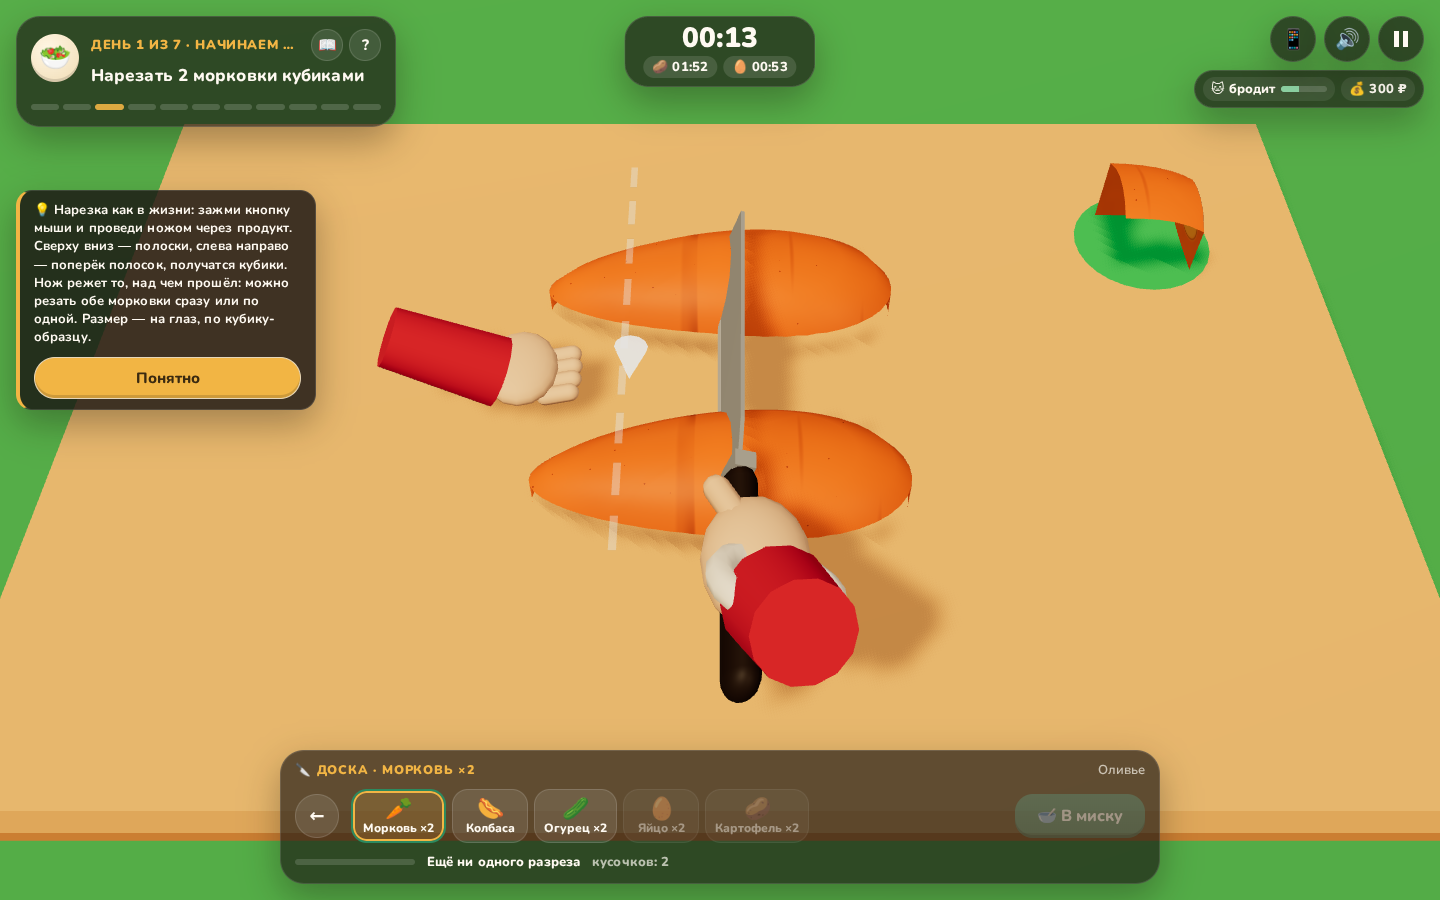
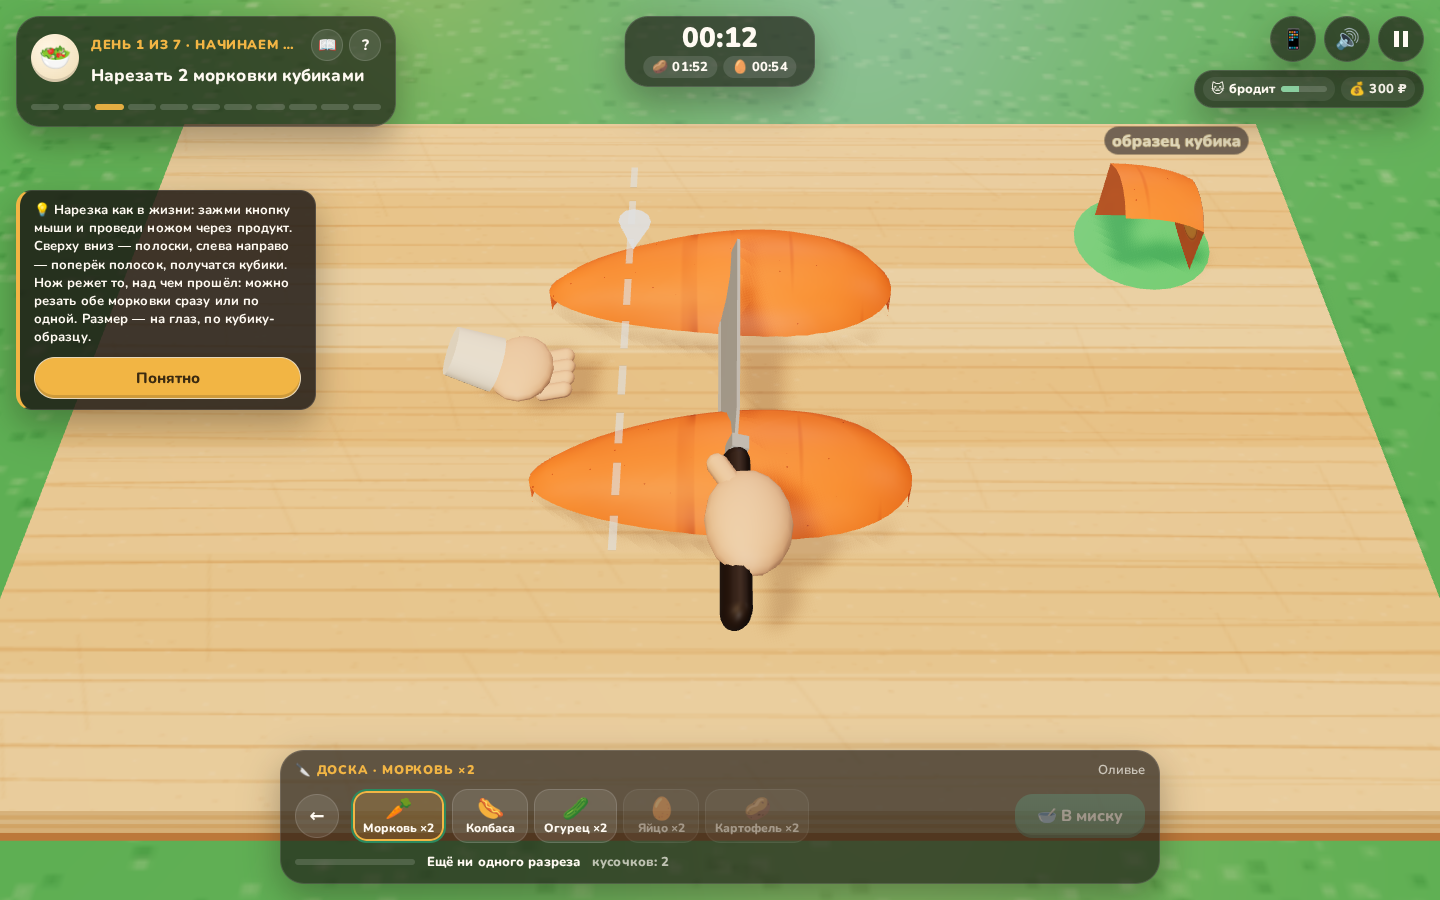
docs: отчёт QA 0.6.0 — день 1 мышью 48/0, снимки 1280 и 1440
Task: #16

Claude-Session: https://claude.ai/code/session_01FGx6tw6oGSPKftvX4UAwQf

diff --git a/.planning/2026-10-07-day1-final-quality/task_plan.md b/.planning/2026-10-07-day1-final-quality/task_plan.md
@@ -23,7 +23,7 @@ Phase 7
 - [x] объёмные кусочки по продукту (высота, кожура vs мякоть, шейдер мякоти)
 - [x] нож следует за росчерком, пунктир будущего разреза, стрелка-подсказка
 - [x] разъезд и раскрытие кусочков, крошки
-- [ ] scripts/campaign-e2e.mjs d1 под росчерки (делегировано QA-агенту)
+- [x] scripts/campaign-e2e.mjs d1 под росчерки (QA-агент, затем обновлён под новый интерфейс)
 - **Status:** complete (коммит 0480492)
 
 ### Phase 2b: Интерфейс заново (фидбек владельца: «калище и нагружено»)
@@ -38,7 +38,7 @@ Phase 7
 
 ### Phase 4: Телефон-смартфон, 5 приложений (#13)
 - [x] домашний экран, 5 приложений, бонусы/декор/фото/таймеры (1b6f07d)
-- [ ] декор виден в 3D-кухне (в фазе 6)
+- [x] декор виден в 3D-кухне (2564f31)
 - **Status:** complete
 
 ### Phase 5: Поучительная книга (#14)
@@ -53,10 +53,10 @@ Phase 7
 
 ### Phase 7: Проверка и выдача (#16)
 - [x] npm test 99/99, темп 41.8/54.8 мин
-- [ ] e2e дня 1 мышью 1280 и 1440 под новый интерфейс (идёт)
-- [x] interaction-spec.md (вместо gestures.md), нейтральная ссылка v2 опубликована
-- [ ] docs/QA_v06.md, CHANGELOG 0.6.0, push, отчёт владельцу
-- **Status:** pending
+- [x] e2e дня 1 мышью 1280: 47/1 → исправлено (часы, совет) → 48/0; снимки UI 1280 и 1440
+- [x] interaction-spec.md (вместо gestures.md), нейтральная ссылка v3 опубликована
+- [x] docs/QA_v06.md, CHANGELOG 0.6.0, push, отчёт владельцу
+- **Status:** complete
 
 ## Key Questions
 1. Как резать по z без R? — транспонировать координаты (x↔z), cutAcross, транспонировать обратно.
@@ -80,4 +80,5 @@ Phase 7
 | e2e искал вкладки телефона и кнопки bowlAdd | 1 | скрипт обновлён под приложения и жесты миски |
 
 ## Next Step
-Дождаться e2e 1280, прогнать 1440, написать docs/QA_v06.md, закоммитить, отчитаться.
+Ждать правок владельца после игры. Кандидаты дальше: GLB героини и кота от художника; дни 2–7 «руками»
+по design/gdd/interaction-spec.md; решения по рецептам (соль → перемешать → попробовать, солёный/свежий огурец).

diff --git a/docs/QA_v06.md b/docs/QA_v06.md
@@ -36,7 +36,16 @@ Linux-контейнер без GPU, headless Chromium (Playwright 1.56), WebGL 
 - совет-обучение по центру сверху закрывал метки раковины и плиты (скрипт дошёл до них только обходом) —
   совет теперь всегда в левой колонке.
 
-Повторный прогон после исправлений: RESULT_RERUN
+Повторный прогон после исправлений: **48 OK, 0 FAIL** (1280×720, всё мышью, 0 ошибок консоли).
+В трёх местах скрипт не дождался открытия станции после клика по метке и открыл её вызовом `session.goTo`
+(доска, плита) — это перечислено в логе прогона. Отдельная проверка: все 11 меток станций в обзоре кухни
+доступны мышью (`document.elementFromPoint` в центре каждой метки попадает в саму метку).
+
+Снимки интерфейса без `?dev` в **1280×720 и 1440×900** (`scripts/ui-shots.mjs`): меню, интро, кухня, плита,
+доска, раковина, миска, пауза — 0 ошибок консоли, панели разработчика нет. Полный сценарий дня в 1440×900
+этой ночью не прогонялся (на программном рендере он идёт ~20 минут).
+
+Публичная ссылка (нейтральная сборка без бренда, `VITE_NEUTRAL=1`) обновлена до версии с этими исправлениями.
 
 Отдельные прицельные сценарии мышью, 0 ошибок консоли в каждом:
 - `scripts/board-shots.mjs` — все пять продуктов дня 1 росчерками, кривой росчерк с подсказкой;

diff --git a/.planning/2026-10-07-day1-final-quality/progress.md b/.planning/2026-10-07-day1-final-quality/progress.md
@@ -10,3 +10,4 @@
 - Фаза 2b UI (2f97f10), фаза 3 миска (aa07683), e2e агента 46/0 (c76baf4), фаза 4 телефон (1b6f07d). 99 тестов.
 - Замечания QA: образец кубика похож на третью морковь; раковина мышью недостижима; 489 draw calls (тени).
 - Фаза 5 книга (baa0b0d), фаза 6 визуал+декор (2564f31). Версия 0.6.0, CHANGELOG. Нейтральная ссылка опубликована (версия 2 того же артефакта).
+- Фаза 7: e2e дня 1 мышью 47/1 → фикс часов и совета (60c75aa) → 48/0; снимки 1280/1440; ссылка v3. Отчёт docs/QA_v06.md.
